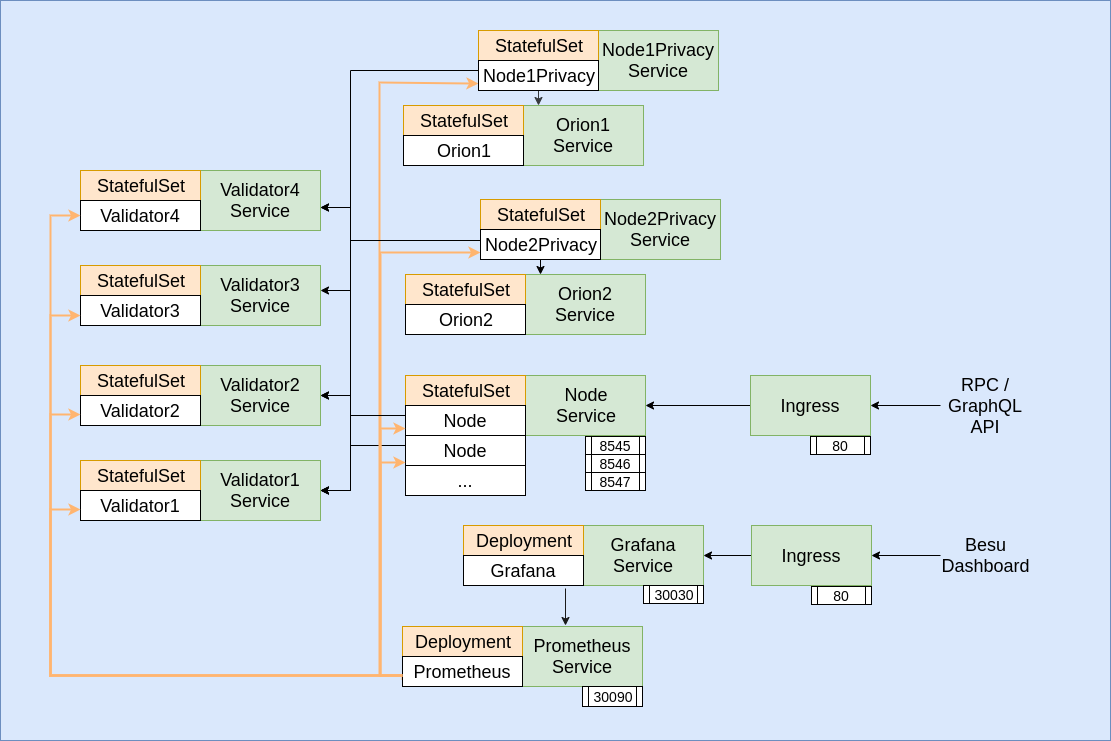
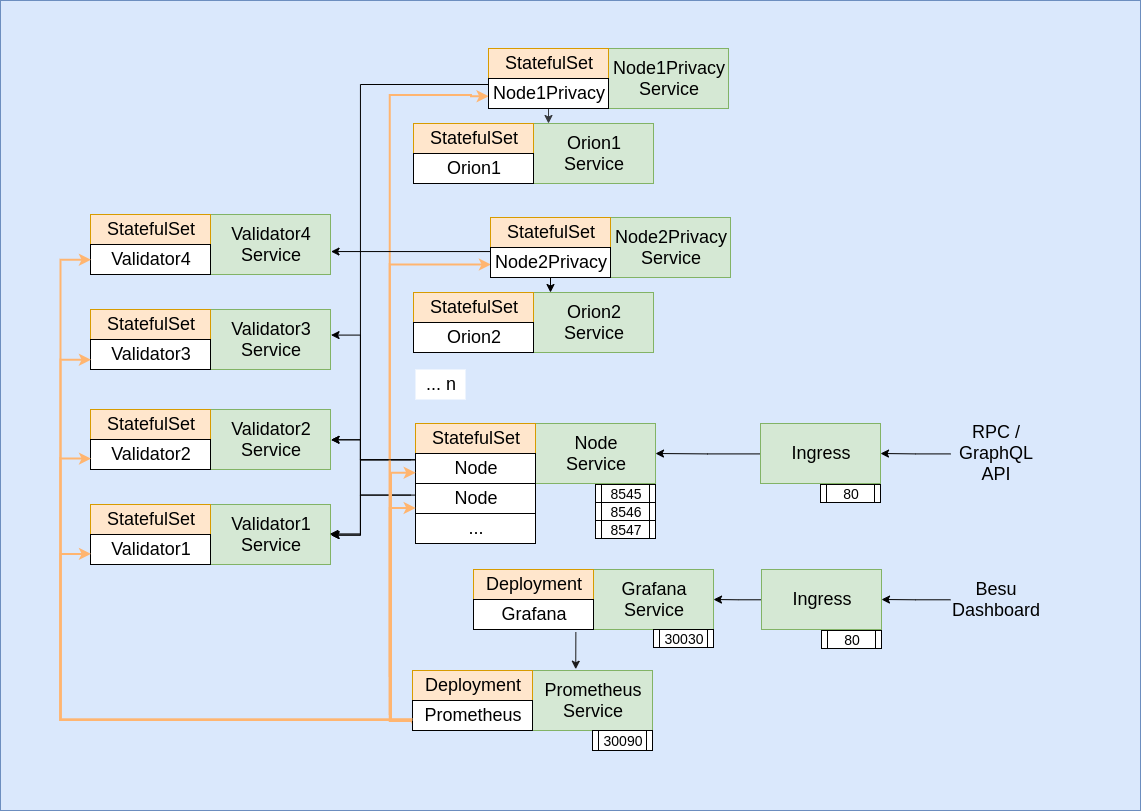
updating helm orion to be 4 orions + 4 nodes to match

diff --git a/kubectl/private-network-ibft-and-orion/README.md b/kubectl/private-network-ibft-and-orion/README.md
@@ -13,6 +13,7 @@
 ## NOTE:
 1. validators1 and 2 serve as bootnodes as well. Adjust according to your needs
 2. If you add more validators in past the initial setup, they need to be voted in to be validators i.e they will serve as normal nodes and not validators until they've been voted in.
+3. Node1Privacy to Node4Privacy are tied to Orion1 to Orion4 respectively
 
 #### 1. Boot nodes private keys
 Create private/public keys for the validators using the besu subcommands. The private keys are put into secrets and the public keys go into a configmap to get the bootnode enode address easily
@@ -39,7 +40,9 @@ For more information please refer to the [documentation](https://docs.orion.pega
 Create the keypairs and enter the password when requested. 
 ```bash
 docker run -it --volume $PWD/orionSetup/orion1:/opt/orion/data --entrypoint "/bin/sh" pegasyseng/orion:develop -c 'cd /opt/orion/data && /opt/orion/bin/orion -g nodeKey'
-docker run -it --volume $PWD/orionSetup/orion2:/opt/orion/data --entrypoint "/bin/sh" pegasyseng/orion:develop -c 'cd /opt/orion/data && /opt/orion/bin/orion -g nodeKey' 
+docker run -it --volume $PWD/orionSetup/orion2:/opt/orion/data --entrypoint "/bin/sh" pegasyseng/orion:develop -c 'cd /opt/orion/data && /opt/orion/bin/orion -g nodeKey'
+docker run -it --volume $PWD/orionSetup/orion3:/opt/orion/data --entrypoint "/bin/sh" pegasyseng/orion:develop -c 'cd /opt/orion/data && /opt/orion/bin/orion -g nodeKey' 
+docker run -it --volume $PWD/orionSetup/orion4:/opt/orion/data --entrypoint "/bin/sh" pegasyseng/orion:develop -c 'cd /opt/orion/data && /opt/orion/bin/orion -g nodeKey' 
 sudo chown -R $USER:$USER ./orionSetup
 ```
 
@@ -71,12 +74,15 @@ kubectl apply -f services/node1privacy-service.yaml
 kubectl apply -f services/node2privacy-service.yaml
 kubectl apply -f services/orion1-service.yaml
 kubectl apply -f services/orion2-service.yaml
+kubectl apply -f services/orion3-service.yaml
+kubectl apply -f services/orion4-service.yaml
 kubectl apply -f services/prometheus-service.yaml
 kubectl apply -f services/grafana-service.yaml
 
 kubectl apply -f deployments/orion1-deployment.yaml
 kubectl apply -f deployments/orion2-deployment.yaml
-kubectl apply -f deployments/node2privacy-deployment.yaml
+kubectl apply -f deployments/orion3-deployment.yaml
+kubectl apply -f deployments/orion4-deployment.yaml
 kubectl apply -f deployments/validator1-deployment.yaml
 kubectl apply -f deployments/validator2-deployment.yaml
 kubectl apply -f deployments/validator3-deployment.yaml
@@ -84,6 +90,8 @@ kubectl apply -f deployments/validator4-deployment.yaml
 kubectl apply -f deployments/node-deployment.yaml
 kubectl apply -f deployments/node1privacy-deployment.yaml
 kubectl apply -f deployments/node2privacy-deployment.yaml
+kubectl apply -f deployments/node3privacy-deployment.yaml
+kubectl apply -f deployments/node4privacy-deployment.yaml
 
 kubectl apply -f deployments/prometheus-deployment.yaml
 kubectl apply -f deployments/grafana-deployment.yaml

diff --git a/helm/private-network-ibft-and-orion/besu/README.md b/helm/private-network-ibft-and-orion/besu/README.md
@@ -17,7 +17,7 @@
 ## NOTE:
 1. validators1 and 2 serve as bootnodes as well. Adjust according to your needs
 2. If you add more validators in past the initial setup, they need to be voted in to be validators i.e they will serve as normal nodes and not validators until they've been voted in.
-3. Node1Privacy and Node2Privacy are tied to Orion1 & Orion2 respectively
+3. Node1Privacy to Node4Privacy are tied to Orion1 to Orion4 respectively
 
 ## Pre chart install - you need to create config that you want to persist
 #### 1. Validators private keys
